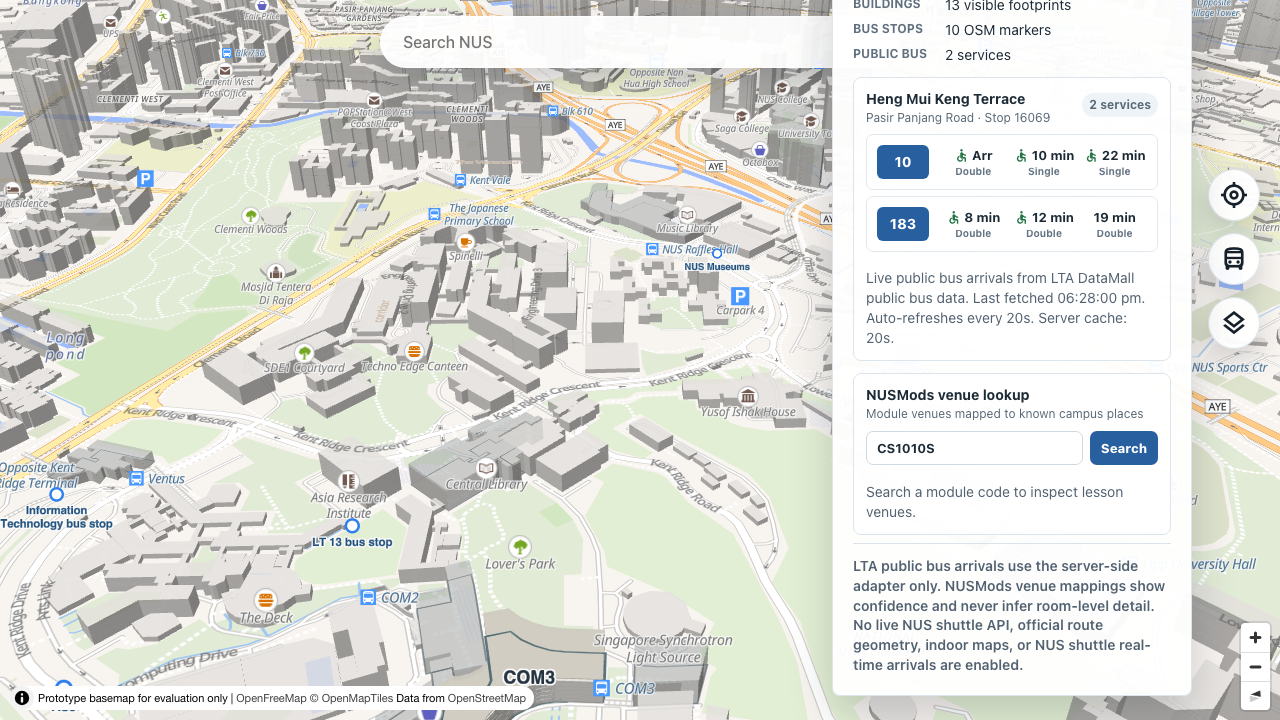
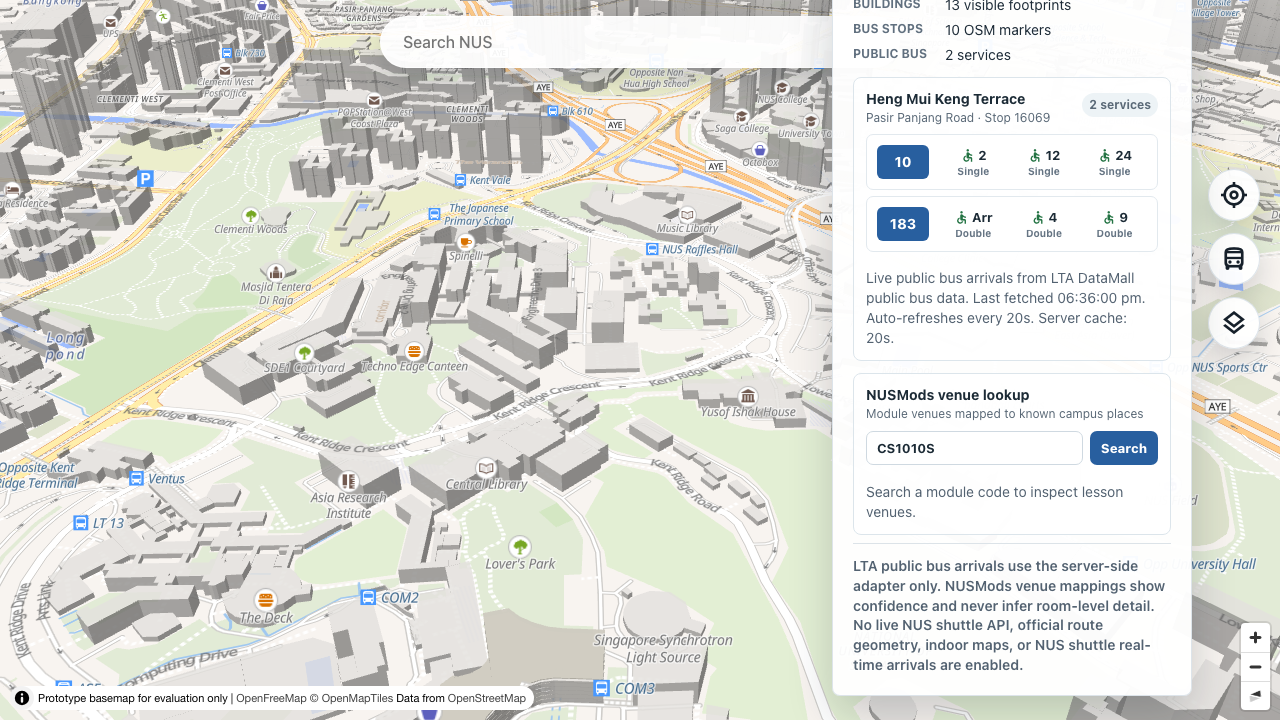
Compact public bus ETA labels

diff --git a/src/map/CampusMap.tsx b/src/map/CampusMap.tsx
@@ -117,12 +117,24 @@ function getPublicBusStatusLabel(state: PublicBusArrivalUiState) {
   return 'Unavailable';
 }
 
-function formatArrivalMinutes(minutes: number | null) {
+function formatArrivalDisplay(minutes: number | null) {
   if (minutes === null) {
     return '--';
   }
 
-  return minutes === 0 ? 'Arr' : `${minutes} min`;
+  return minutes === 0 ? 'Arr' : `${minutes}`;
+}
+
+function formatArrivalAccessibleLabel(minutes: number | null) {
+  if (minutes === null) {
+    return 'no arrival estimate';
+  }
+
+  if (minutes === 0) {
+    return 'arriving';
+  }
+
+  return `${minutes} minute${minutes === 1 ? '' : 's'}`;
 }
 
 function formatFetchedAt(value?: string) {
@@ -144,7 +156,7 @@ function formatFetchedAt(value?: string) {
 }
 
 function getPublicBusEstimateLabel(bus: PublicBusArrivalUiState['arrivals'][number]['nextBuses'][number]) {
-  const timeLabel = formatArrivalMinutes(bus.estimatedArrivalMinutes);
+  const timeLabel = formatArrivalAccessibleLabel(bus.estimatedArrivalMinutes);
   const vehicleTypeLabel = getPublicBusVehicleTypeLabel(bus.type);
   const accessibilityLabel = isPublicBusWheelchairAccessible(bus.feature) ? 'wheelchair-accessible bus' : null;
 
@@ -1499,7 +1511,7 @@ export function CampusMap() {
                                   <span className="material-symbols-outlined publicBusWheelchairIcon" aria-hidden="true">accessible</span>
                                 ) : null}
                                 <span className="publicBusTime" data-stale={bus.isStale}>
-                                  {formatArrivalMinutes(bus.estimatedArrivalMinutes)}
+                                  {formatArrivalDisplay(bus.estimatedArrivalMinutes)}
                                 </span>
                               </span>
                               {getPublicBusVehicleTypeLabel(bus.type) ? (

diff --git a/tests/e2e/mvp1-map.spec.ts b/tests/e2e/mvp1-map.spec.ts
@@ -95,8 +95,8 @@ test('desktop renders public bus arrivals when the project endpoint returns live
 
   await expect(page.getByRole('definition').filter({ hasText: '1 services' })).toBeVisible();
   await expect(page.getByLabel('Live public bus arrivals from LTA DataMall')).toContainText('96');
-  await expect(page.getByLabel('Live public bus arrivals from LTA DataMall')).toContainText('4 min');
-  await expect(page.getByLabel('Live public bus arrivals from LTA DataMall')).toContainText('11 min');
+  await expect(page.getByLabel('4 minutes, wheelchair-accessible bus, Double')).toBeVisible();
+  await expect(page.getByLabel('11 minutes, wheelchair-accessible bus, Single')).toBeVisible();
   await expect(page.getByLabel('Live public bus arrivals from LTA DataMall')).toContainText('Double');
   await expect(page.getByLabel('Live public bus arrivals from LTA DataMall')).toContainText('Single');
   await expect(page.getByText('Live public bus arrivals from LTA DataMall public bus data')).toBeVisible();

diff --git a/docs/context-handoff.md b/docs/context-handoff.md
@@ -8,18 +8,18 @@ This file is a concise working-memory handoff for long conversations, compaction
 
 - Project name: NUSpace.
 - Repository: `TanYiXun/NUSpace`.
-- Current branch: `main`.
-- Latest `main` commit: `dd04d7f Merge pull request #20 from TanYiXun/phase2-public-bus-live-polish`.
+- Current branch: `phase2-compact-bus-eta-labels`.
+- Latest `main` commit: `ac26835 Update handoff after public bus live polish`.
 - Prototype A through F were completed and merged to `main`.
 - Phase 1 MVP campus data foundation was merged to `main` in PR #7.
 - Phase 1 MVP building footprints was merged to `main` in PR #8.
-- Active uncommitted work: none.
+- Active uncommitted work: compact public bus ETA labels, refreshed live-polish screenshots, e2e assertion update, and handoff update.
 
 ## Current Phase
 
-- Active plan section: `PLAN.md` section 12, Phase 3 NUSMods intelligence.
-- Current slice: Phase 2 public bus live polish is merged; next work can return to Phase 3 from a fresh branch.
-- The user has been reviewing the running local app. Restart the local preview from updated `main` before judging the UI.
+- Active plan section: `PLAN.md` section 11.1, Phase 2 public bus integration polish.
+- Current slice: visible public bus ETA cells omit `min` for less clutter while keeping explicit accessible labels such as `4 minutes`.
+- The user has been reviewing the running local app. The live preview on `5173` was stopped temporarily so `npm run test:e2e` could run against its clean no-env server.
 
 ## Current Phase 1 Slice
 
@@ -222,6 +222,7 @@ Known build warning:
 - Phase 3 UI polish PR #18 was pushed, opened with screenshots, and merged to `main`.
 - Phase 3 selected module panel PR #19 was pushed, opened with screenshots, and merged to `main`.
 - Phase 2 public bus live polish PR #20 was pushed, opened with screenshots, and merged to `main`.
+- Current `phase2-compact-bus-eta-labels` branch keeps the PR #20 auto-refresh and Material Symbols accessibility behavior, but shortens visible ETAs from `4 min` to `4` while preserving accessible labels.
 - `data/curated/phase2-public-bus-stops.json` now references `Heng Mui Keng Terrace` (`16069`) separately from OSM campus markers, and the overview sheet shows the endpoint missing-key state when no server key is configured.
 - Merged PR #15 renders live public bus service rows when `/api/transit/public-bus-arrivals` returns `ok`, adds `.env.example`, adds `docs/decisions/phase-2-review.md`, and loads ignored `.env.local` into the Vite dev middleware server.
 - Local live verification on 2026-09-18 returned `ok` for `Heng Mui Keng Terrace` stop `16069` with 8 LTA public bus services. The key is stored only in ignored `.env.local`.
@@ -231,9 +232,9 @@ Known build warning:
 
 ## Next Recommended Action
 
-Continue Phase 3 NUSMods intelligence. Recommended next options:
+Continue the current compact public bus ETA checkpoint. Recommended next options:
 
-1. Restart the local preview from updated `main` after merge.
-2. Start the next Phase 3 slice on a fresh branch.
-3. Expand venue mappings only with documented provenance.
-4. Continue with a fresh task after a checkpoint if needed: `Read AGENTS.md, PLAN.md section 12, and docs/context-handoff.md, then continue.`
+1. Commit, push, open, and merge `phase2-compact-bus-eta-labels`.
+2. Restart the local preview from updated `main` after merge.
+3. Then return to Phase 3 only from a fresh branch.
+4. Continue with a fresh task after a checkpoint if needed: `Read AGENTS.md, PLAN.md section 11.1, and docs/context-handoff.md, then continue.`

diff --git a/docs/design.md b/docs/design.md
@@ -343,6 +343,7 @@ Accepted behavior:
 
 - Public bus rows auto-refresh every 20 seconds while the app is open.
 - The timestamp says `Last fetched` and separates browser refresh behavior from the server cache duration.
+- Visible public bus ETAs omit the word `min` to reduce grid clutter; ETA cells keep explicit accessible labels such as `4 minutes`.
 - `SD` and `DD` are rendered as `Single` and `Double`.
 - `WAB` is rendered as the Material Symbols `accessible` icon with accessible text on the ETA cell.
 - Vehicle type and accessibility are shown per arriving bus, not summarized from only the first ETA in a service row.
